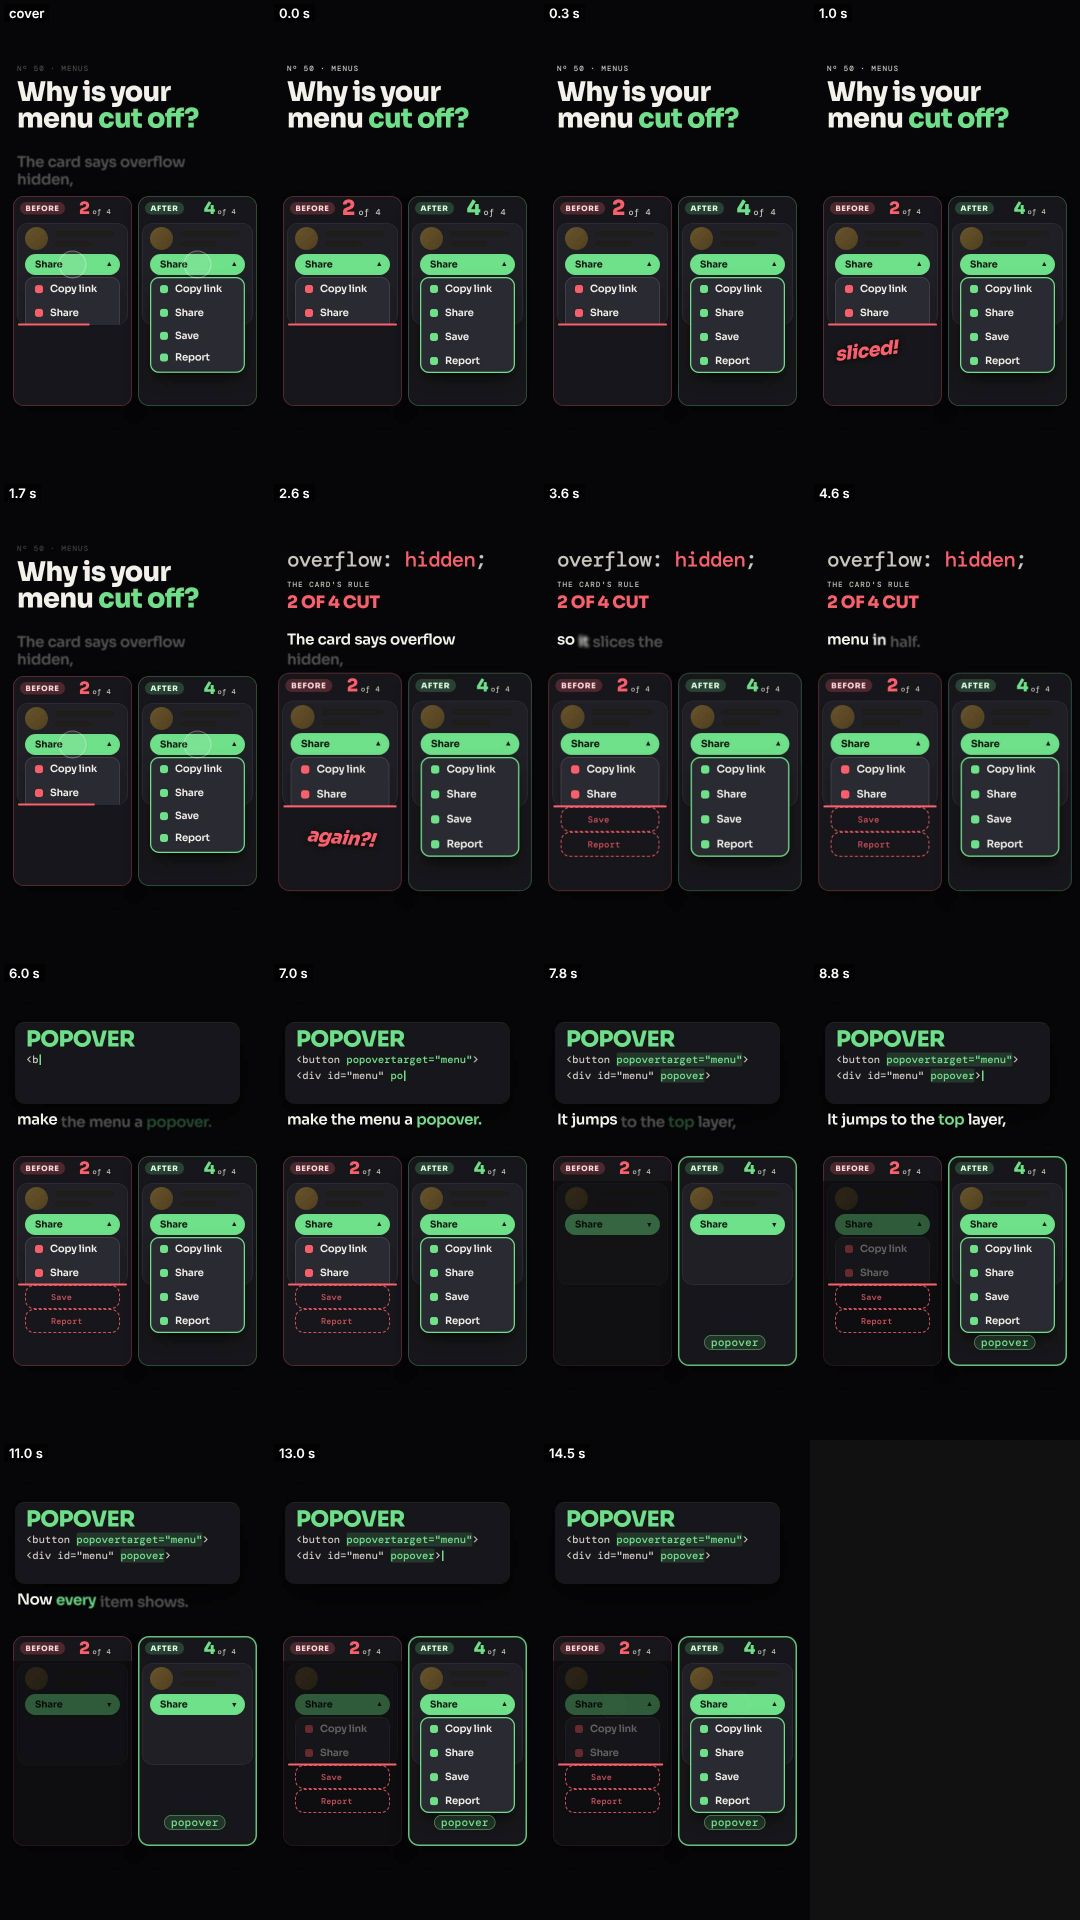
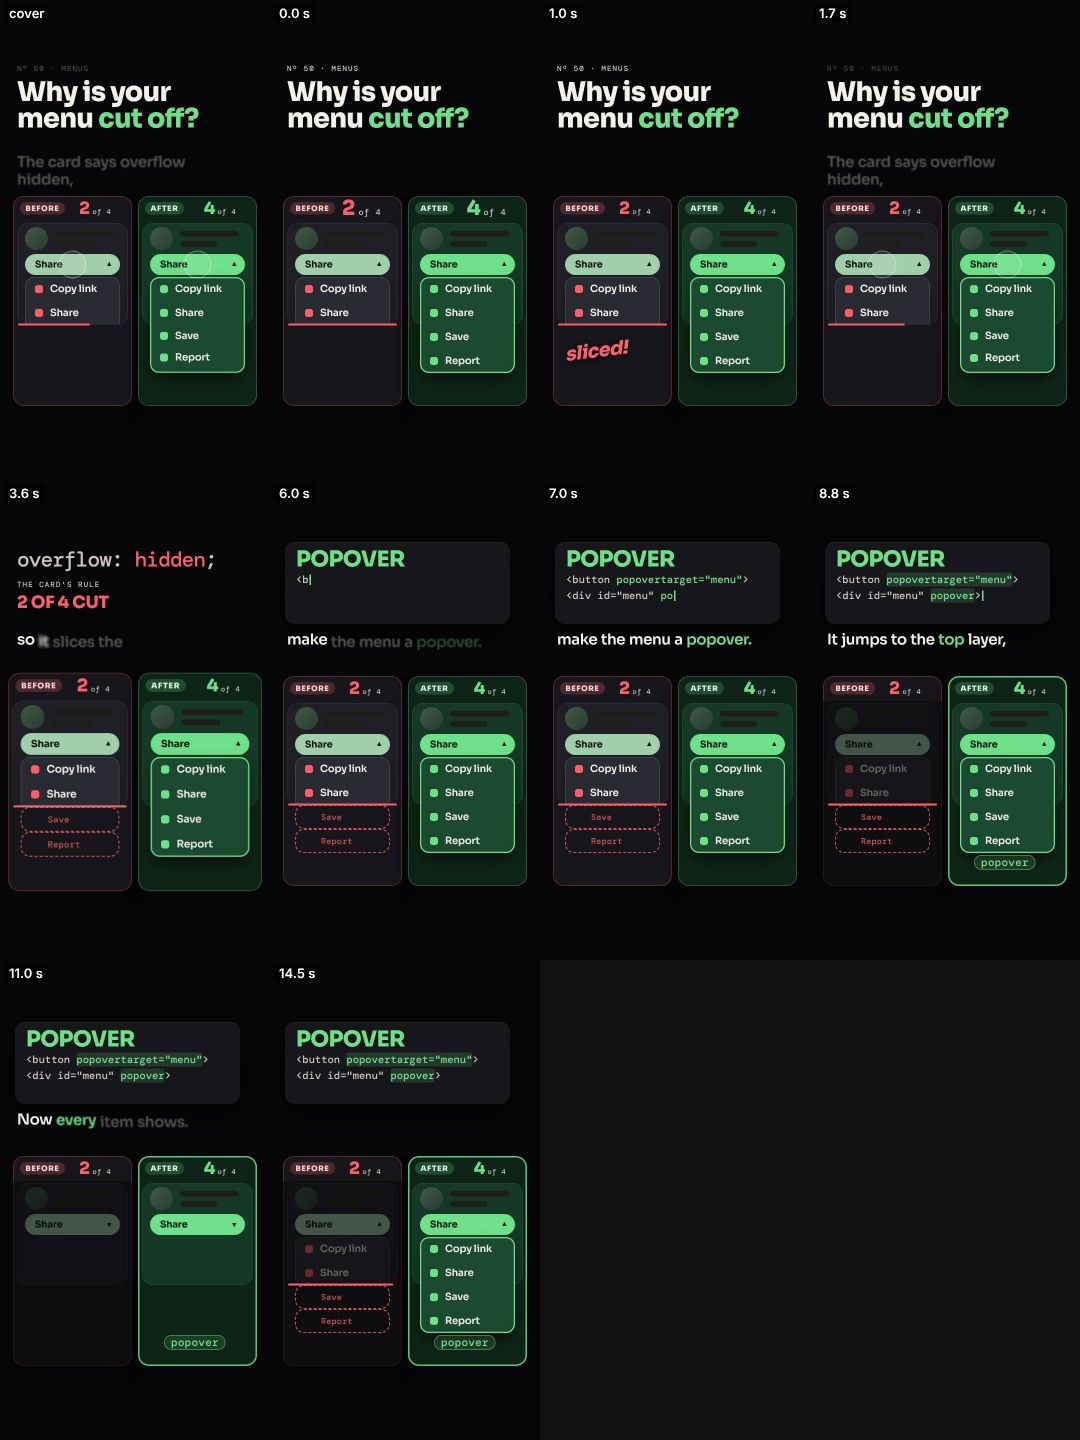
Web 28 Nov popover: stills approved, preflight-all PASS, text-fill fix for the subject, hue entry
Claude-Session: https://claude.ai/code/session_01AYvWRjJfUMBr1p7gctqGLW

diff --git a/scripts/explainer/popover.html b/scripts/explainer/popover.html
@@ -17,9 +17,11 @@ html,body{width:540px;height:960px;overflow:hidden;background:var(--ink);color:v
 #vp{left:0;top:0;width:540px;height:960px;overflow:hidden}
 #world{left:0;top:0;width:540px;height:960px;transform-origin:0 0}
 #sp{left:0;top:0;width:540px;height:960px;transform-origin:270px 556px}
+#hero{color:var(--paper)}
+#hero,#hero *{-webkit-text-fill-color:currentColor}
 /* the demo card (built twice by KM.split): header, two skeleton lines, the Share button; the menu opens under the button */
 .pcard{position:absolute;left:8px;top:4px;width:222px;height:204px;border-radius:22px;background:#1f1f25;overflow:hidden;box-shadow:inset 0 0 0 1px rgba(255,255,255,.1)}
-.pav{position:absolute;left:16px;top:8px;width:46px;height:46px;border-radius:50%;background:linear-gradient(135deg,var(--d2),var(--d1))}
+.pav{position:absolute;left:16px;top:8px;width:46px;height:46px;border-radius:50%;background:linear-gradient(135deg,#3f5a49,#2a3d31)}
 .pln{position:absolute;height:11px;border-radius:6px;background:var(--skel)}
 .pbt{position:absolute;left:16px;top:62px;width:190px;height:42px;border-radius:21px;background:var(--acc);color:var(--on);font:700 19px/42px var(--f);letter-spacing:-.01em;padding-left:20px;transform-origin:50% 50%}
 .pbt i{position:absolute;right:18px;top:0;font-style:normal;font-size:15px;transform-origin:50% 50%}
@@ -27,7 +29,9 @@ html,body{width:540px;height:960px;overflow:hidden;background:var(--ink);color:v
 .pcard .pmn{left:16px;top:108px}
 .pmn b{position:absolute;left:0;width:190px;height:48px;font:600 20px/48px var(--f);letter-spacing:-.015em;padding-left:50px;white-space:nowrap}
 .pmn b::before{content:"";position:absolute;left:20px;top:16px;width:16px;height:16px;border-radius:5px;background:var(--wc)}
-.pmn.fx{box-shadow:inset 0 0 0 2.5px var(--acc),0 16px 32px -10px rgba(0,0,0,.75)}
+.pmn.fx{background:#1c4a30;box-shadow:inset 0 0 0 2.5px var(--acc),0 16px 32px -10px rgba(0,0,0,.75)}
+.pcard.fx{background:#163826}
+.pbt.bd{filter:saturate(.4)}
 .pgh{z-index:4;position:absolute;left:24px;width:190px;height:48px;border-radius:18px;border:2px dashed var(--red);font:500 17px/44px var(--m);color:var(--red);letter-spacing:.02em;padding-left:50px;opacity:0;white-space:nowrap}
 .pcut{position:absolute;left:10px;width:218px;height:4px;border-radius:2px;background:var(--red);opacity:0;z-index:4}
 .pveil{position:absolute;left:0;top:0;right:0;bottom:0;background:rgba(10,10,12,.62);opacity:0;z-index:3}
@@ -673,9 +677,9 @@ var KM = (function(){
   function mkEl(tag, cls, parent, css){ var e = document.createElement(tag); if (cls) e.className = cls; if (css) e.style.cssText = css; if (parent) parent.appendChild(e); return e; }
   // the same card, built twice: broken = the menu lives INSIDE the card (overflow: hidden clips it at the card's edge); fixed = the menu is a popover, above the card
   function build(body, broken){
-    var card = mkEl('div', 'pcard', body), rows = [], gh = [], i, btn, chev, menu, cut = null, tp = mkEl('div', 'ptp', body), pane = body.parentNode;
+    var card = mkEl('div', 'pcard' + (broken ? '' : ' fx'), body), rows = [], gh = [], i, btn, chev, menu, cut = null, tp = mkEl('div', 'ptp', body), pane = body.parentNode;
     mkEl('div', 'pav', card); mkEl('div', 'pln', card, 'left:76px;top:16px;width:118px'); mkEl('div', 'pln', card, 'left:76px;top:36px;width:74px');
-    btn = mkEl('div', 'pbt', card); btn.innerHTML = 'Share<i>▾</i>'; chev = btn.querySelector('i');
+    btn = mkEl('div', 'pbt' + (broken ? ' bd' : ''), card); btn.innerHTML = 'Share<i>▾</i>'; chev = btn.querySelector('i');
     menu = mkEl('div', 'pmn' + (broken ? '' : ' fx'), broken ? card : body, 'height:' + (ITEMS.length * 48) + 'px');
     ITEMS.forEach(function(s, k){ var r = mkEl('b', '', menu, 'top:' + (k * 48) + 'px'); r.textContent = s; r.style.setProperty('--wc', broken ? 'var(--red)' : 'var(--acc)'); rows.push(r); });
     if (broken) { for (i = 2; i < 4; i++) { var g = mkEl('div', 'pgh', body, 'top:' + (112 + i * 48) + 'px'); g.textContent = ITEMS[i]; gh.push(g); } cut = mkEl('div', 'pcut', body, 'top:' + (CB - 3) + 'px'); PN.veil = mkEl('div', 'pveil', body); }
@@ -718,7 +722,7 @@ var KM = (function(){
     KM.cue({ t: A.typeEnd + .15, k: 'pop', g: .3, p: 4 }); KM.cue({ t: OPN[2][0] + .5, k: 'resolve', g: .42, x: 255, r: .3, notes: [57, 64, 69, 76] });
     KM.cue({ t: DUR - .45, k: 'swish', d: .6, g: .4, p: -.6 });
     SP = KM.split($('sp'), { t0: -.01, d: .01, build: build, faults: TB, y: PY, h: PH_, gap: 12, side: 26, labels: ['BEFORE', 'AFTER'] });
-    SP.panes.forEach(function(pn){ pn.removeAttribute('data-key'); });   // the panes are the subject (inside #hero), not key actions
+    SP.panes.forEach(function(pn){ pn.removeAttribute('data-key'); }); SP.panes[1].style.background = '#0f2418';   // the panes are the subject (inside #hero), not key actions
     // element sound (scripts/explainer/kitsfx.js): every element that enters, moves or changes has a cue by its size, or is marked with the cue that covers it
     KM.mark($('sp'), 'tree', 'the split has its swell, the menu opens have their tap and pop cues, the bug has its hits');
     KM.sfx($('lbl'), A.leave - .2, 'exit', { size: 'small' }); KM.sfx($('band'), A.leave - .1, 'enter', { size: 'medium', g: .6 });

diff --git a/review/web/showreel-50-popover.direction.md b/review/web/showreel-50-popover.direction.md
@@ -14,4 +14,4 @@ Fill before the build (design/direction.md: the card, and this channel's default
 
 Stills check round 1 (Fable, session_01AYvWRkh492S7gneUMDmWsP, 2026-11-28): REDO (frame 0 showed "0 of 4" and no cut; "2 OF 4 CUT" and the ghosts arrived after the voice; menus closed while the code typed; the popover tag and code were about 10 px; the dimmed BEFORE lost its cut line; the accent matched gold). Fixed in one round: the menu is open at frame 0 with "2 of 4" / "4 of 4" already there; "2 OF 4 CUT" at about 2.6 s and the ghosts at about 3.0 s; the menus stay open until the dim; the tag is 22 px, the code card is POPOVER plus two 21 px lines; a veil dims BEFORE but the cut line, ghosts and "2" stay red; the accent is green #6fe08a (hue 135, new against 25, 85, 165, 225, 265, 285, 315).
 
-STILLS CHECK: PENDING
+STILLS CHECK: APPROVED (session_01AYvWRh31q143Z8U4JAKn39, 2026-11-28): all six round 1 asks are fixed and nothing is clipped, overlapping, empty or unreadable at phone size (watch in the render: the popover tag sits a few pixels under the open AFTER menu; the grey "of 4" is the smallest text).

diff --git a/review/web/showreel-50-popover.md b/review/web/showreel-50-popover.md
@@ -29,3 +29,4 @@ Researched improvement (design/improvements.md web, no unused item left): the si
 Craft improvement (design/craft-log.md): see the 28 Nov web line.
 References used: none (rules 19, 20, 21; the tabwiggle gold).
 Deliberate differences from gold, for the critic: (a) the accent is green #6fe08a (hue 135, new); (b) the hero is the KM.split pair, not one phone (rule 21), so the demo is two 238 px cards instead of one 504 px phone; (c) the meter strip is replaced by a count in each pane's header (the panes need the height); (d) no camera drift, one 4% push.
+PREFLIGHT-ALL: PASS 42e68285 (showreel-50-popover, 16 s)
